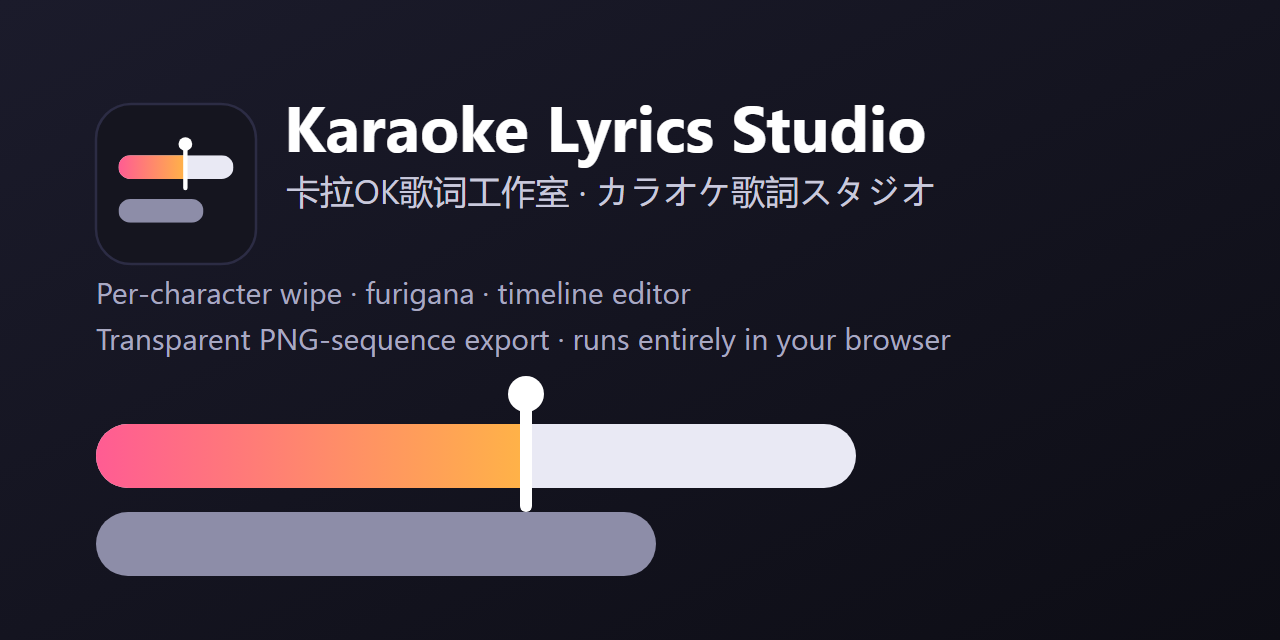
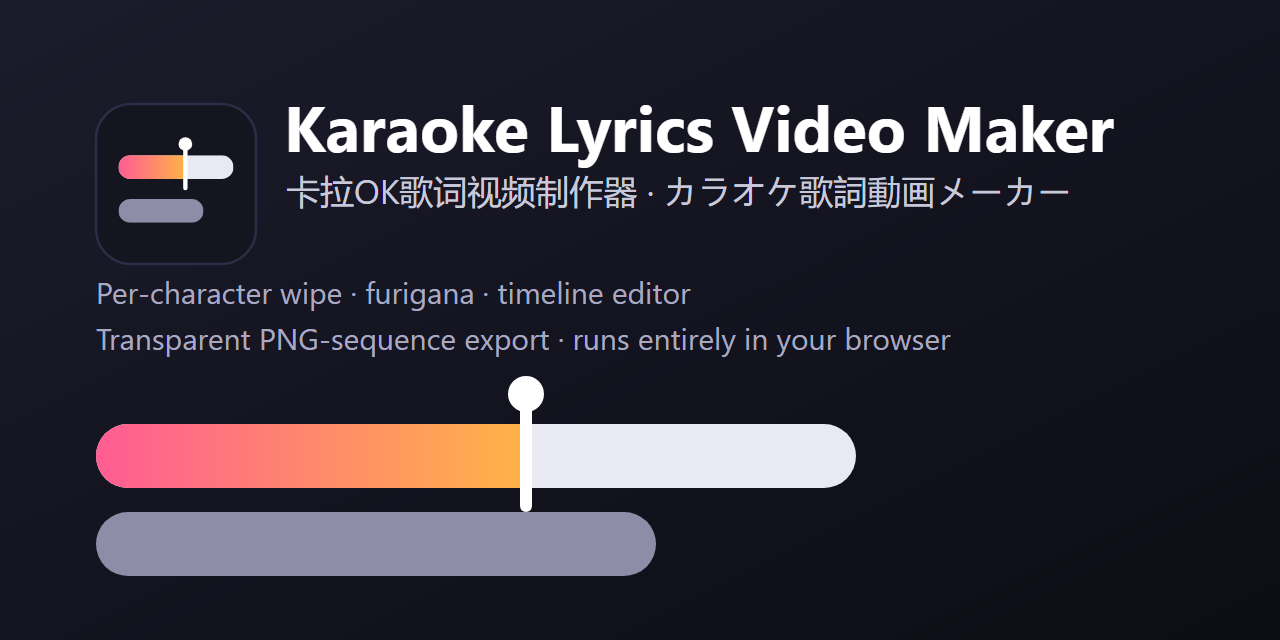
标题改为 Karaoke Lyrics Video Maker（中/日/英 i18n 同步）

Changed region(s): [[0.3438, 0.1562, 0.875, 0.3438]]

diff --git a/js/i18n.js b/js/i18n.js
@@ -6,7 +6,7 @@
   const D = {};
 
   D['zh-CN'] = {
-    'app.name': '卡拉OK歌词工作室',
+    'app.name': '卡拉OK歌词视频制作器',
     'untitled': '未命名',
     'newLyric': '新歌词',
     'projType': '卡拉OK工程',
@@ -121,7 +121,7 @@
     'tip.charMora': '「{c}」第 {n} 拍「{m}」', 'tip.retime': '{what} 开始于 {t} 秒', 'tip.lineEnd': '行结束于 {t} 秒',
     'tip.pushed': '同时推动了另外 {n} 个边界（橙色）', 'tip.move': '开始 {t} 秒 · 第 {row} 行', 'tip.tick': '{what} → {t} 秒',
     'tip.end': '结束 {t} 秒', 'tip.show': '出现 {t} 秒', 'tip.hide': '消失 {t} 秒',
-    'tip.auto': '自动（可拖动修改）', 'tip.snapped': '已吸附到播放头 · 按住 Shift 不吸附', 'w.title': '欢迎使用卡拉OK歌词工作室',
+    'tip.auto': '自动（可拖动修改）', 'tip.snapped': '已吸附到播放头 · 按住 Shift 不吸附', 'w.title': '欢迎使用卡拉OK歌词视频制作器',
     'w.pitch': '在浏览器里制作逐字擦除的卡拉OK歌词：支持注音、多行排版和预备点，可导出带透明通道的 PNG 序列。所有内容都只在本机处理，不会上传。', 'w.step1': '载入歌曲', 'w.step1Desc': '把音频或视频拖进窗口，或点「载入音视频…」。',
     'w.step2': '放入歌词', 'w.step2Desc': '粘贴歌词，或导入 SRT / LRC 字幕、逐字对齐的 JSON，也可以在时间线上右键添加。', 'w.step3': '校时',
     'w.step3Desc': "播放时按 T 逐字（字母按音节）打点，或在预览里拖动擦除光标、在时间线上拖动刻度。", 'w.step4': '导出', 'w.step4Desc': '导出透明 PNG 序列放进剪辑软件，或使用录屏模式。',
@@ -235,7 +235,7 @@
   };
 
   D.ja = {
-    'app.name': 'カラオケ歌詞スタジオ',
+    'app.name': 'カラオケ歌詞動画メーカー',
     'untitled': '無題',
     'newLyric': '新しい歌詞',
     'projType': 'カラオケプロジェクト',
@@ -350,7 +350,7 @@
     'tip.charMora': '「{c}」の {n} 拍目「{m}」', 'tip.retime': '{what} の開始 = {t} 秒', 'tip.lineEnd': '行の終了 = {t} 秒',
     'tip.pushed': 'ほかの境界 {n} か所も押し出されます（オレンジ）', 'tip.move': '開始 {t} 秒 · {row} 段目', 'tip.tick': '{what} → {t} 秒',
     'tip.end': '終了 {t} 秒', 'tip.show': '表示開始 {t} 秒', 'tip.hide': '表示終了 {t} 秒',
-    'tip.auto': '自動（ドラッグで変更）', 'tip.snapped': '再生位置にスナップ中 · Shift を押すと解除', 'w.title': 'カラオケ歌詞スタジオへようこそ',
+    'tip.auto': '自動（ドラッグで変更）', 'tip.snapped': '再生位置にスナップ中 · Shift を押すと解除', 'w.title': 'カラオケ歌詞動画メーカーへようこそ',
     'w.pitch': 'ブラウザーだけで、一文字ずつワイプするカラオケ歌詞を作れます。ルビ、複数段レイアウト、カウントインに対応し、透明 PNG 連番で書き出せます。データはこの PC の中だけで処理され、アップロードされません。', 'w.step1': '曲を読み込む', 'w.step1Desc': '音声・動画をウィンドウにドロップするか、「音声・動画…」から読み込みます。',
     'w.step2': '歌詞を入れる', 'w.step2Desc': '歌詞を貼り付けるか、SRT・LRC 字幕や一文字ごとの JSON を読み込みます。タイムラインを右クリックして追加することもできます。', 'w.step3': 'タイミングを合わせる',
     'w.step3Desc': '再生しながら T キーでタップするか、プレビューのワイプカーソルやタイムラインの目盛りをドラッグします。', 'w.step4': '書き出す', 'w.step4Desc': '透明 PNG 連番を書き出して動画編集ソフトへ。録画モードも使えます。',
@@ -464,7 +464,7 @@
   };
 
   D.en = {
-    'app.name': 'Karaoke Lyrics Studio',
+    'app.name': 'Karaoke Lyrics Video Maker',
     'untitled': 'Untitled',
     'newLyric': 'New lyric',
     'projType': 'Karaoke project',
@@ -579,7 +579,7 @@
     'tip.charMora': '“{c}” mora {n} “{m}”', 'tip.retime': '{what} starts at {t} s', 'tip.lineEnd': 'Line ends at {t} s',
     'tip.pushed': 'Also pushes {n} other boundaries (orange)', 'tip.move': 'Start {t} s · Row {row}', 'tip.tick': '{what} → {t} s',
     'tip.end': 'End {t} s', 'tip.show': 'Appears {t} s', 'tip.hide': 'Disappears {t} s',
-    'tip.auto': 'auto (drag to change)', 'tip.snapped': 'Snapped to playhead · hold Shift to release', 'w.title': 'Welcome to Karaoke Lyrics Studio',
+    'tip.auto': 'auto (drag to change)', 'tip.snapped': 'Snapped to playhead · hold Shift to release', 'w.title': 'Welcome to Karaoke Lyrics Video Maker',
     'w.pitch': 'Make character-by-character karaoke lyrics in your browser, with furigana, multi-row layouts and count-in dots, and export them as a transparent PNG sequence. Everything stays on your computer.', 'w.step1': 'Load your song', 'w.step1Desc': 'Drop an audio or video file onto the window, or use “Load Media…”.',
     'w.step2': 'Get the lyrics in', 'w.step2Desc': 'Paste lyrics, or import SRT / LRC subtitles or a per-character JSON. You can also right-click the timeline to add lines.', 'w.step3': 'Retime',
     'w.step3Desc': 'Tap T while it plays, or drag the wipe cursor in the preview and the ticks on the timeline.', 'w.step4': 'Export', 'w.step4Desc': 'Write a transparent PNG sequence for your video editor, or use Record Mode.',

diff --git a/index.html b/index.html
@@ -3,32 +3,32 @@
 <head>
 <meta charset="utf-8">
 <meta name="viewport" content="width=device-width,initial-scale=1">
-<title>Karaoke Lyrics Studio</title>
+<title>Karaoke Lyrics Video Maker</title>
 <meta name="description" content="Free in-browser karaoke lyric editor: per-character wipe, furigana above kanji, multi-row layouts with count-in dots, a timeline for retiming, and transparent PNG-sequence export. Runs locally; nothing is uploaded.">
 <meta name="theme-color" content="#111317">
 <meta name="color-scheme" content="dark">
 <!-- Open Graph / Twitter. Crawlers want absolute image URLs: after deploying, replace the relative image paths below with your full GitHub Pages URL -->
 <meta property="og:type" content="website">
-<meta property="og:title" content="Karaoke Lyrics Studio">
+<meta property="og:title" content="Karaoke Lyrics Video Maker">
 <meta property="og:description" content="Time karaoke lyrics character by character in your browser, with furigana, multi-row layouts and transparent PNG-sequence export.">
 <meta property="og:image" content="assets/social-preview.png">
 <meta property="og:image:width" content="1280">
 <meta property="og:image:height" content="640">
-<meta property="og:image:alt" content="Karaoke Lyrics Studio logo and title above a lyric bar that is half wiped, with a wipe cursor">
+<meta property="og:image:alt" content="Karaoke Lyrics Video Maker logo and title above a lyric bar that is half wiped, with a wipe cursor">
 <meta name="twitter:card" content="summary_large_image">
-<meta name="twitter:title" content="Karaoke Lyrics Studio">
+<meta name="twitter:title" content="Karaoke Lyrics Video Maker">
 <meta name="twitter:description" content="Time karaoke lyrics character by character in your browser, with furigana, multi-row layouts and transparent PNG-sequence export.">
 <meta name="twitter:image" content="assets/social-preview.png">
 <link rel="icon" href="assets/favicon.svg" type="image/svg+xml">
 <link rel="stylesheet" href="css/app.css">
 </head>
 <body>
-<noscript><div class="noscript"><b>Karaoke Lyrics Studio</b> runs entirely in your browser and needs JavaScript. Please enable JavaScript, or open this page in Chrome or Edge.</div></noscript>
+<noscript><div class="noscript"><b>Karaoke Lyrics Video Maker</b> runs entirely in your browser and needs JavaScript. Please enable JavaScript, or open this page in Chrome or Edge.</div></noscript>
 <div id="phoneNote" class="note" role="status" hidden><span data-i18n="phone.note"></span><button id="pnClose" data-i18n="phone.ok"></button></div>
 <div id="app">
   <header id="top">
     <button id="bLeft" class="ico tog" data-i18n-aria="top.togLeft" data-i18n-title="top.togLeft" aria-pressed="true">☰</button>
-    <b class="brand" data-i18n="app.name">Karaoke Lyrics Studio</b>
+    <b class="brand" data-i18n="app.name">Karaoke Lyrics Video Maker</b>
     <input id="title" type="text" data-i18n-title="top.title" data-i18n-placeholder="top.title" data-i18n-aria="top.title" spellcheck="false">
     <button id="saveState" class="chip"><i aria-hidden="true"></i><span></span></button>
     <span class="grp">

diff --git a/js/importers.js b/js/importers.js
@@ -146,7 +146,7 @@
   K.exportLrcText = (words) => {
     const off = K.S().offset, head = []; const ti = (K.project.title || '').replace(/[\r\n\]]/g, ' ').trim();
     if (ti) head.push('[ti:' + ti + ']');
-    head.push('[re:Karaoke Lyrics Studio]', '[ve:' + K.APP.version + ']');
+    head.push('[re:Karaoke Lyrics Video Maker]', '[ve:' + K.APP.version + ']');
     /* LRC 没有“一行里换行”：行内换行变成一个空格（旁边已经有空白时不加），在增强 LRC 里这个空格跟着换行前的那一组 */
     const ut = (l, i) => { const nx = l.units[i + 1]; return l.units[i].t + (nx && nx.n && !/\s$/.test(l.units[i].t) && !/^\s/.test(nx.t) ? ' ' : ''); };
     const body = byStart().filter((l) => plain(l).trim()).map((l) => '[' + lrcT(K.ls(l) + off) + ']' +

diff --git a/tools/align/align.py b/tools/align/align.py
@@ -3,7 +3,7 @@
 
 Input : an .srt file (one cue per lyric line) and vocals_16k.wav from separate.py
 Output: a JSON array  [{id, start, end, text, score, units:[{t, r, t0, t1}]}]
-        that the Karaoke Lyrics Studio can import directly ("Import SRT / JSON...").
+        that the Karaoke Lyrics Video Maker can import directly ("Import SRT / JSON...").
 
 Modes
   window  each cue is aligned independently inside its SRT time +/- --pad seconds (robust, default)

diff --git a/tools/align/common.py b/tools/align/common.py
@@ -4,7 +4,7 @@ Nothing in this module imports torch at import time, so the pure-Python parts
 (SRT parsing, splitting a lyric line into display units + readings, building the
 alignment tokens) can be used and tested without a GPU stack.
 
-Output unit format (what the Karaoke Lyrics Studio imports):
+Output unit format (what the Karaoke Lyrics Video Maker imports):
     {"t": "字", "r": "じ" | null, "t0": 1.234, "t1": 1.456}
 """
 import importlib

diff --git a/README.md b/README.md
@@ -1,4 +1,4 @@
-# Karaoke Lyrics Studio
+# Karaoke Lyrics Video Maker
 
 **English** · [简体中文](README.zh-CN.md) · [日本語](README.ja.md)
 
@@ -8,7 +8,7 @@ Export a **transparent PNG sequence** that Premiere Pro and other editors import
 
 No installation and no build step: open `index.html` in Chrome or Edge, or host the folder on any static server.
 
-![Karaoke Lyrics Studio](assets/social-preview.svg)
+![Karaoke Lyrics Video Maker](assets/social-preview.svg)
 
 **Try it online:** `https://<your-github-username>.github.io/karaoke-studio/`
 (this is a placeholder - replace it with the URL of your own GitHub Pages deployment, see [Deploying to GitHub Pages](#deploying-to-github-pages))

diff --git a/README.zh-CN.md b/README.zh-CN.md
@@ -1,4 +1,4 @@
-# 卡拉OK歌词工作室
+# 卡拉OK歌词视频制作器
 
 [English](README.md) · **简体中文** · [日本語](README.ja.md)
 
@@ -7,7 +7,7 @@
 
 无需安装和构建：用 Chrome / Edge 直接打开 `index.html`，或把整个文件夹放到任意静态服务器上。
 
-![卡拉OK歌词工作室](assets/social-preview.svg)
+![卡拉OK歌词视频制作器](assets/social-preview.svg)
 
 **在线试用：** `https://<your-github-username>.github.io/karaoke-studio/`
 （这只是占位地址，请换成你自己部署后的 GitHub Pages 地址，见[部署到 GitHub Pages](#部署到-github-pages)）
